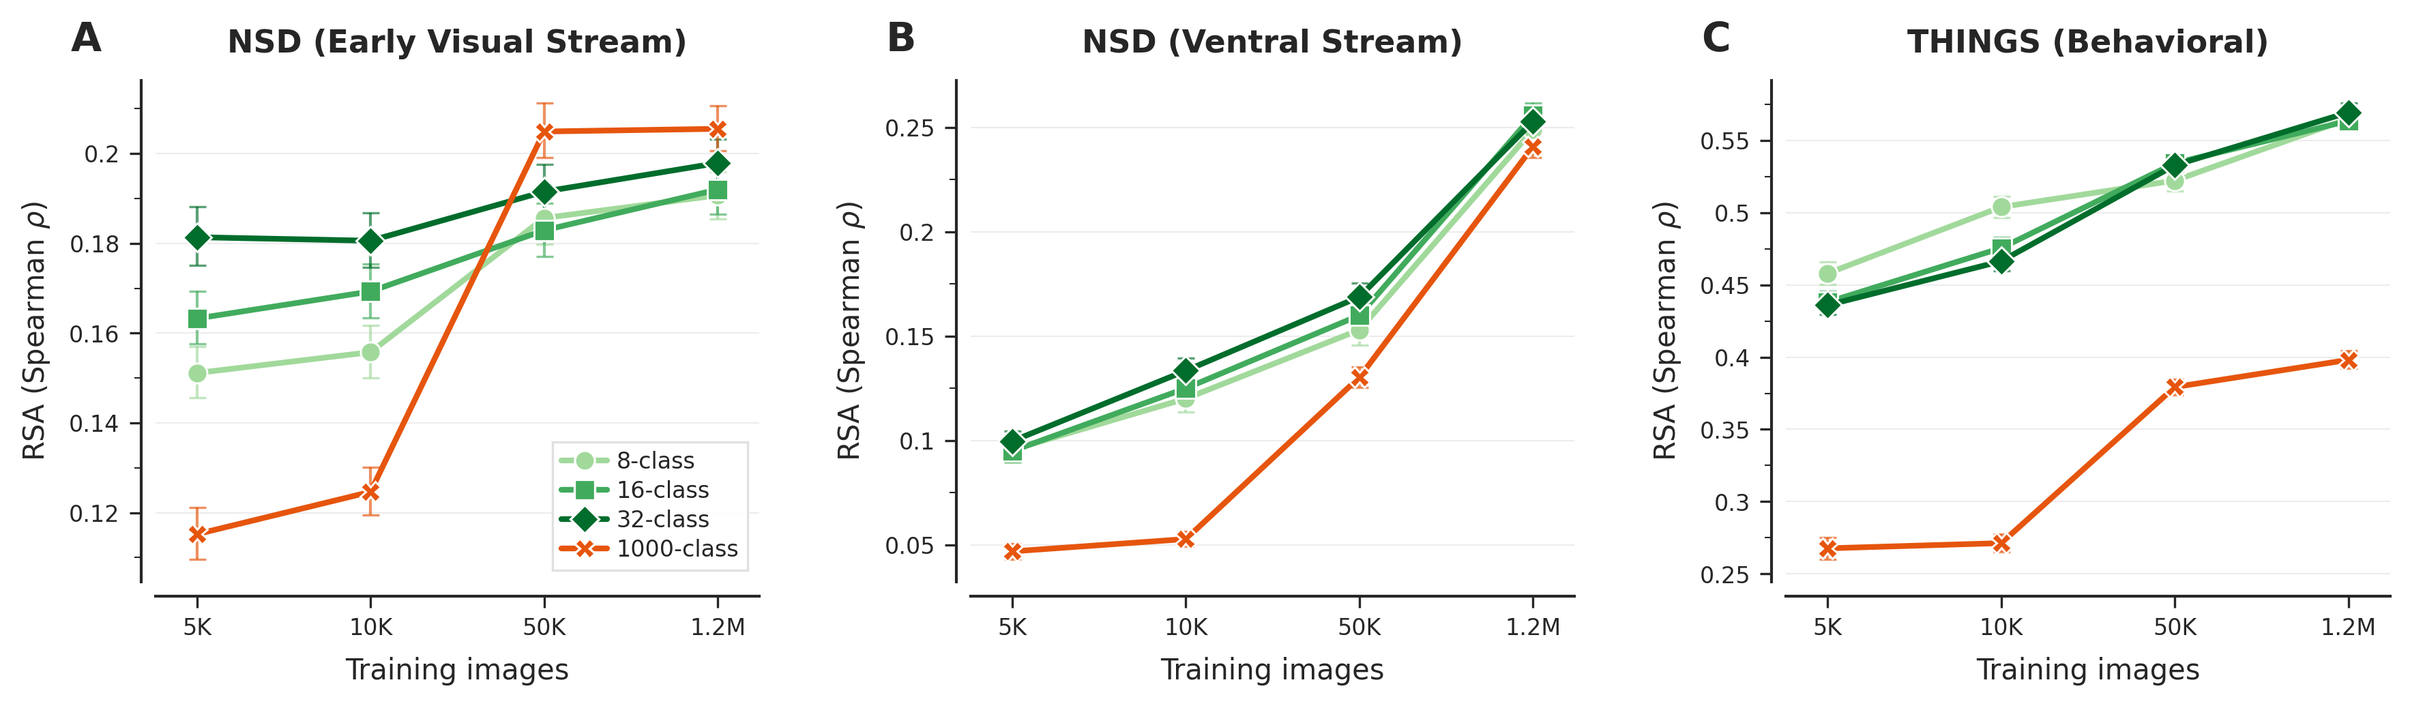
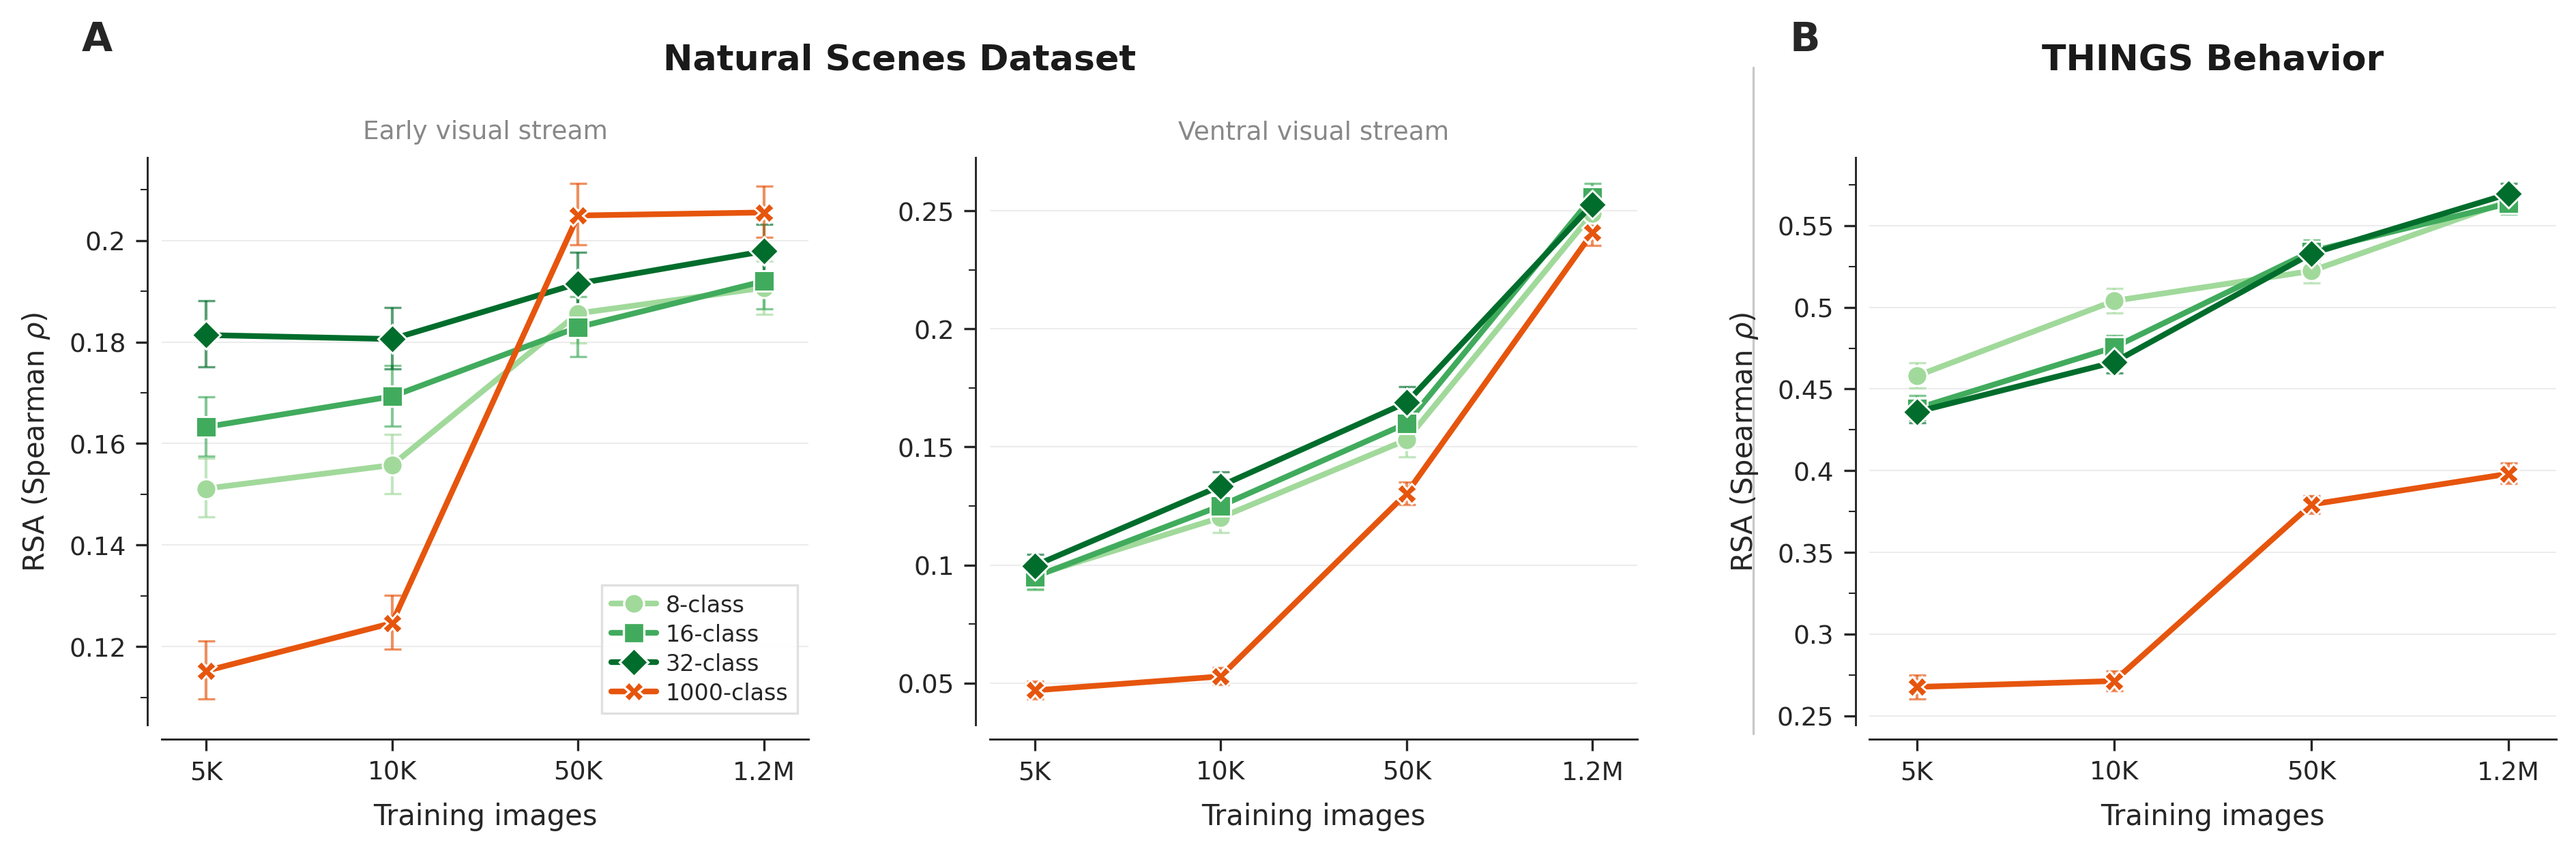
Redesign Figure 5 with grouped NSD panels and shared dataset headers
Group early and ventral NSD panels under a shared 'Natural Scenes Dataset'
header with tighter spacing. THINGS panel separated with its own header.
Rename 'Ventral Stream' to 'Ventral Visual Stream' for consistency.

diff --git a/manuscript/figures/fig5/figure5.py b/manuscript/figures/fig5/figure5.py
@@ -2,7 +2,7 @@
 
 Layout (3 panels):
   Panel A: NSD (Early Visual Stream) — line plot across 4 data scales
-  Panel B: NSD (Ventral Stream) — line plot across 4 data scales
+  Panel B: NSD (Ventral Visual Stream) — line plot across 4 data scales
   Panel C: THINGS (Behavioral) — line plot across 4 data scales
 
 Usage:
@@ -52,7 +52,7 @@ BENCHMARKS = {
         "ylabel": r"RSA (Spearman $\rho$)",
     },
     "nsd": {
-        "title": "NSD (Ventral Stream)",
+        "title": "NSD (Ventral Visual Stream)",
         "ylabel": r"RSA (Spearman $\rho$)",
     },
     "things": {
@@ -292,40 +292,98 @@ def plot_panel(ax, data, benchmark):
 
 def main():
     setup_style()
+    plt.rcParams.update({
+        "axes.labelsize": 10,
+        "xtick.labelsize": 9,
+        "ytick.labelsize": 9,
+        "axes.linewidth": 0.7,
+    })
 
     csv_data = load_csv_data()
     full_data = load_full_imagenet()
     data = pd.concat([csv_data, full_data], ignore_index=True)
 
-    fig = plt.figure(figsize=(12, 3.5))
+    fig = plt.figure(figsize=(13, 4.4))
     fig.patch.set_facecolor("white")
 
-    gs = gridspec.GridSpec(1, 3, figure=fig, wspace=0.35,
-                           left=0.06, right=0.97, top=0.85, bottom=0.15)
+    # Layout: [NSD early | NSD ventral | spacer | THINGS]
+    # Use nested gridspecs: inner for NSD pair (tight), outer for NSD vs THINGS
+    outer = gridspec.GridSpec(1, 3, figure=fig,
+                              width_ratios=[2.15, 0.08, 1],
+                              wspace=0.12,
+                              left=0.06, right=0.96, top=0.78, bottom=0.15)
+    # NSD pair: tighter wspace
+    gs_nsd = gridspec.GridSpecFromSubplotSpec(1, 2, subplot_spec=outer[0, 0],
+                                              wspace=0.28)
 
-    # Panel A: NSD (Early Visual Stream)
-    ax_early = fig.add_subplot(gs[0, 0])
+    # ── Panel A (left): NSD Early Visual Stream ──
+    ax_early = fig.add_subplot(gs_nsd[0, 0])
     plot_panel(ax_early, data[data["benchmark"] == "nsd_early"], "nsd_early")
+    ax_early.set_title("")  # Remove per-panel title; we'll use shared headers
 
-    # Panel B: NSD (Ventral Stream)
-    ax_nsd = fig.add_subplot(gs[0, 1])
+    # ── Panel A (right): NSD Ventral Visual Stream ──
+    ax_nsd = fig.add_subplot(gs_nsd[0, 1])
     plot_panel(ax_nsd, data[data["benchmark"] == "nsd"], "nsd")
+    ax_nsd.set_title("")
+    ax_nsd.set_ylabel("")  # Share y-label with left panel
 
-    # Panel C: THINGS (Behavioral)
-    ax_things = fig.add_subplot(gs[0, 2])
+    # ── Panel B: THINGS Behavioral ──
+    ax_things = fig.add_subplot(outer[0, 2])
     plot_panel(ax_things, data[data["benchmark"] == "things"], "things")
+    ax_things.set_title("")
 
-    # Panel labels
-    for ax, label, x_off in zip(
-        [ax_early, ax_nsd, ax_things],
-        ["A", "B", "C"],
-        [-0.14, -0.14, -0.14],
-    ):
-        ax.text(x_off, 1.12, label, transform=ax.transAxes,
-                fontsize=14, fontweight="bold", va="top", ha="left",
-                family="sans-serif")
+    # ── Dataset headers (bold, centered above panel groups) ──
+    # NSD header spans both NSD panels
+    nsd_left = ax_early.get_position().x0
+    nsd_right = ax_nsd.get_position().x1
+    nsd_center_x = (nsd_left + nsd_right) / 2
+    nsd_top_y = ax_early.get_position().y1
 
-    # Legend in bottom-right of Panel A
+    fig.text(nsd_center_x, nsd_top_y + 0.09, "Natural Scenes Dataset",
+             fontsize=12.5, fontweight="bold", color="#1a1a1a",
+             ha="center", va="bottom", family="sans-serif")
+
+    # THINGS header
+    things_pos = ax_things.get_position()
+    things_center_x = (things_pos.x0 + things_pos.x1) / 2
+    things_top_y = things_pos.y1
+
+    fig.text(things_center_x, nsd_top_y + 0.09, "THINGS Behavior",
+             fontsize=12.5, fontweight="bold", color="#1a1a1a",
+             ha="center", va="bottom", family="sans-serif")
+
+    # ── Region subtitles (gray, below dataset headers) ──
+    early_pos = ax_early.get_position()
+    early_cx = (early_pos.x0 + early_pos.x1) / 2
+    fig.text(early_cx, nsd_top_y + 0.015, "Early visual stream",
+             fontsize=9, color="#888888",
+             ha="center", va="bottom", family="sans-serif")
+
+    nsd_pos = ax_nsd.get_position()
+    nsd_cx = (nsd_pos.x0 + nsd_pos.x1) / 2
+    fig.text(nsd_cx, nsd_top_y + 0.015, "Ventral visual stream",
+             fontsize=9, color="#888888",
+             ha="center", va="bottom", family="sans-serif")
+
+    # ── Panel labels: A for NSD group, B for THINGS ──
+    # Use a shared y for vertical alignment
+    label_y = max(nsd_top_y, things_top_y) + 0.11
+    fig.text(nsd_left - 0.03, label_y, "A",
+             fontsize=14, fontweight="bold", va="bottom", ha="left",
+             family="sans-serif")
+    fig.text(things_pos.x0 - 0.03, label_y, "B",
+             fontsize=14, fontweight="bold", va="bottom", ha="left",
+             family="sans-serif")
+
+    # ── Subtle vertical separator between NSD and THINGS ──
+    sep_x = (ax_nsd.get_position().x1 + ax_things.get_position().x0) / 2
+    fig.add_artist(plt.Line2D(
+        [sep_x, sep_x],
+        [ax_early.get_position().y0 - 0.01, label_y - 0.01],
+        transform=fig.transFigure, color="#c8c8c8",
+        linewidth=0.8, zorder=0))
+
+    # ── Legend in Panel A (left) ──
     handles = [
         Line2D([], [], marker=MARKERS[c], color=COLORS[c], markersize=7,
                linewidth=2.0, markeredgecolor="white", markeredgewidth=0.8,
